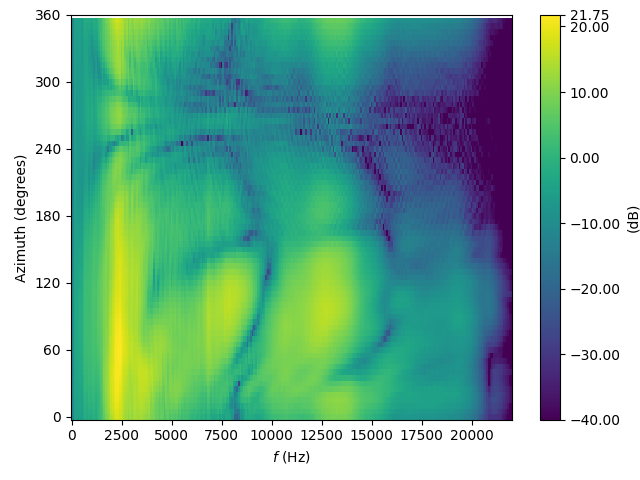
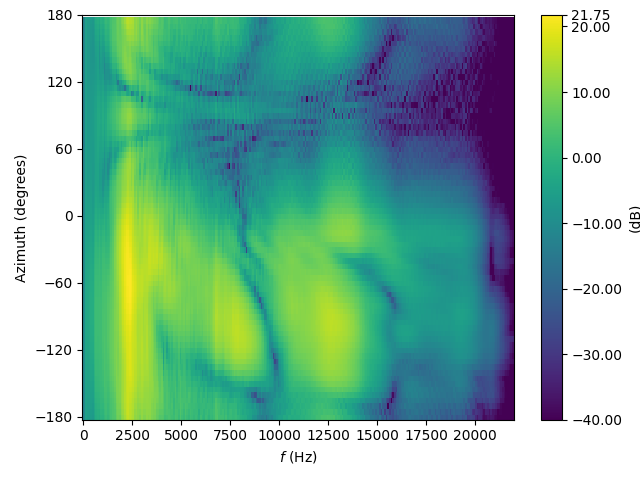
Changed some things in the HRTF functions

diff --git a/helper_functions/hrtf.py b/helper_functions/hrtf.py
@@ -3,6 +3,8 @@ import numpy as np
 import matplotlib.pyplot as plt
 import scipy.fft as spfft
 
+from . import HeadRelatedSpherical, Cartesian, limit_angle, c
+
 
 """
 ========================================================================================================================
@@ -11,7 +13,45 @@ import scipy.fft as spfft
 ===                                                                                                                  ===
 ========================================================================================================================
 """
-__all__ = ["MITHrtf", ]
+__all__ = ["MITHrtf", "woodworth_itd", "plot_woodworth_itd"]
+
+
+head_radius = 87.5e-3  # (m)
+
+
+def woodworth_itd(angle: float):
+    """
+
+    :param angle:
+    :return:
+    """
+    angle = abs(limit_angle(angle))
+    if angle <= np.pi/2:
+        return (head_radius / c) * (angle + np.sin(angle))
+
+    elif np.pi/2 < angle <= np.pi:
+        return (head_radius / c) * (np.pi - angle + np.sin(angle))
+
+    else:
+        raise ValueError(f'Given angle invalid.')
+
+
+def plot_woodworth_itd():
+    """
+
+    :return:
+    """
+    plt.figure(1, figsize=(4.8, 4.8))
+    ax = plt.subplot(projection='polar')
+    th = np.linspace(-np.pi, np.pi, 361)
+
+    ax.plot(th, [woodworth_itd(angle) * 1e3 for angle in th], label='ITD (ms)')
+    ax.set_theta_zero_location("N")
+    ax.set_theta_direction(-1)
+    ax.set_rlabel_position(45)
+    ax.legend(loc=3, bbox_to_anchor=(.8, .95))
+    plt.tight_layout()
+    plt.show()
 
 
 class MITHrtf:
@@ -22,9 +62,9 @@ class MITHrtf:
         """
         # Read the SOFA file with pysofaconventions
         size = "large" if large else "normal"
-        file = sofa.SOFAFile(f'./helper_functions/data/mit_kemar_{size}_pinna.sofa', 'r')
+        file = sofa.SOFAFile(f'/home/josephine/Documents/EWEM/7 - MASTER THESIS/thesis_code/helper_functions/data/mit_kemar_{size}_pinna.sofa', 'r')
         # Extract the list of positions
-        self.pos = file.getVariableValue('SourcePosition')
+        pos_lst = file.getVariableValue('SourcePosition')
         # Get the sampling frequency and number of samples of the HRIRs
         fs = file.getSamplingRate()
         n = file.getDimension('N').size
@@ -34,15 +74,16 @@ class MITHrtf:
         # Set the FFT frequency list
         self.f = spfft.fftfreq(n, 1 / fs)[:n // 2]
         # Create empty arrays for the HRTFs
-        self.hrtf_l = 1j * np.empty((self.pos.shape[0], self.f.size))
-        self.hrtf_r = 1j * np.empty((self.pos.shape[0], self.f.size))
+        self.hrtf_l = 1j * np.empty((pos_lst.shape[0], self.f.size))
+        self.hrtf_r = 1j * np.empty((pos_lst.shape[0], self.f.size))
 
+        self.pos = []
         # Loop over the positions
-        for pi, pos in enumerate(self.pos):
-            self.pos[pi] = (pos[0] * np.pi / 180, pos[1] * np.pi / 180, pos[2])
+        for pi, pos in enumerate(pos_lst):
+            self.pos.append(HeadRelatedSpherical(pos[2], -pos[0] * np.pi / 180, pos[1] * np.pi / 180, Cartesian(0., 0., 0.), 0.))
             # Obtain the correct HRIRs
             hrir_l, hrir_r = hrir[pi, :, :]
-            # FFT of the HRIRs are the HRTFs. Only care about amplitudes
+            # FFT of the HRIRs are the HRTFs
             self.hrtf_l[pi] = spfft.fft(hrir_l)[:n // 2]
             self.hrtf_r[pi] = spfft.fft(hrir_r)[:n // 2]
 
@@ -51,7 +92,7 @@ class MITHrtf:
         TODO: MITHrtf.get_hrtf > write the function to get the HRTF
         :return:
         """
-        raise NotImplementedError("HAHA, f*** you")
+        print([str(pos) for pos in self.pos])
 
     def plot_horizontal(self):
         """
@@ -60,45 +101,48 @@ class MITHrtf:
         # Create some empty lists to temp store the plots
         x_l_lst = []
         x_r_lst = []
-        f_lst = []
         th_lst = []
         # Collect the HRTFs on the horizontal plane
         for pi, pos in enumerate(self.pos):
-            if pos[1] == 0.:
-                th_lst.append(pos[0] * np.ones(self.f.size))
-                f_lst.append(self.f)
+            if pos[2] == 0.:
+                th_lst.append(pos[1])
                 x_l_lst.append(20 * np.log10(2 * np.abs(self.hrtf_l[pi])))
                 x_r_lst.append(20 * np.log10(2 * np.abs(self.hrtf_r[pi])))
 
         # Convert all this stuff to numpy arrays for reasons only known to god at this point
-        x_l_lst = np.array(x_l_lst)
-        x_r_lst = np.array(x_r_lst)
-        f_lst = np.array(f_lst)
         th_lst = np.degrees(np.array(th_lst))
+        th_sort = np.argsort(th_lst)
+        th_lst = th_lst[th_sort]
+        print(th_lst)
+
+        x_l_lst = np.array(x_l_lst)[th_sort]
+        x_r_lst = np.array(x_r_lst)[th_sort]
+        f_lst = self.f
 
         # Define the lowest value for the colorbar
         vmin = -40
         # Plot for the left ear
         plt.figure(1)
-        cmesh = plt.pcolormesh(f_lst, th_lst, x_l_lst, vmin=vmin, )
+        cmesh = plt.pcolor(f_lst, th_lst, x_l_lst, vmin=vmin, )
         cbar = plt.colorbar(cmesh)
         plt.xlabel('$f$ (Hz)')
         plt.ylabel('Azimuth (degrees)')
         cbar.set_label('(dB)')
         plt.tight_layout()
         cbar.set_ticks(np.append(np.arange(vmin, np.max(x_l_lst), 10), np.max(x_l_lst)))
-        plt.yticks((0, 60, 120, 180, 240, 300, 360))
+        plt.yticks((-180, -120, -60, 0, 60, 120, 180, ))
         plt.savefig('./plots/HRTF_left.png')
         # Plot for the right ear
         plt.figure(2)
-        cmesh = plt.pcolormesh(f_lst, th_lst, x_r_lst, vmin=vmin, )
+        cmesh = plt.pcolor(f_lst, th_lst, x_r_lst, vmin=vmin, )
         cbar = plt.colorbar(cmesh)
         plt.xlabel('$f$ (Hz)')
         plt.ylabel('Azimuth (degrees)')
         cbar.set_label('(dB)')
         plt.tight_layout()
         cbar.set_ticks(np.append(np.arange(vmin, np.max(x_r_lst), 10), np.max(x_r_lst)))
-        plt.yticks((0, 60, 120, 180, 240, 300, 360))
+        plt.yticks((-180, -120, -60, 0, 60, 120, 180, ))
         plt.savefig('./plots/HRTF_right.png')
 
         plt.show()
+
